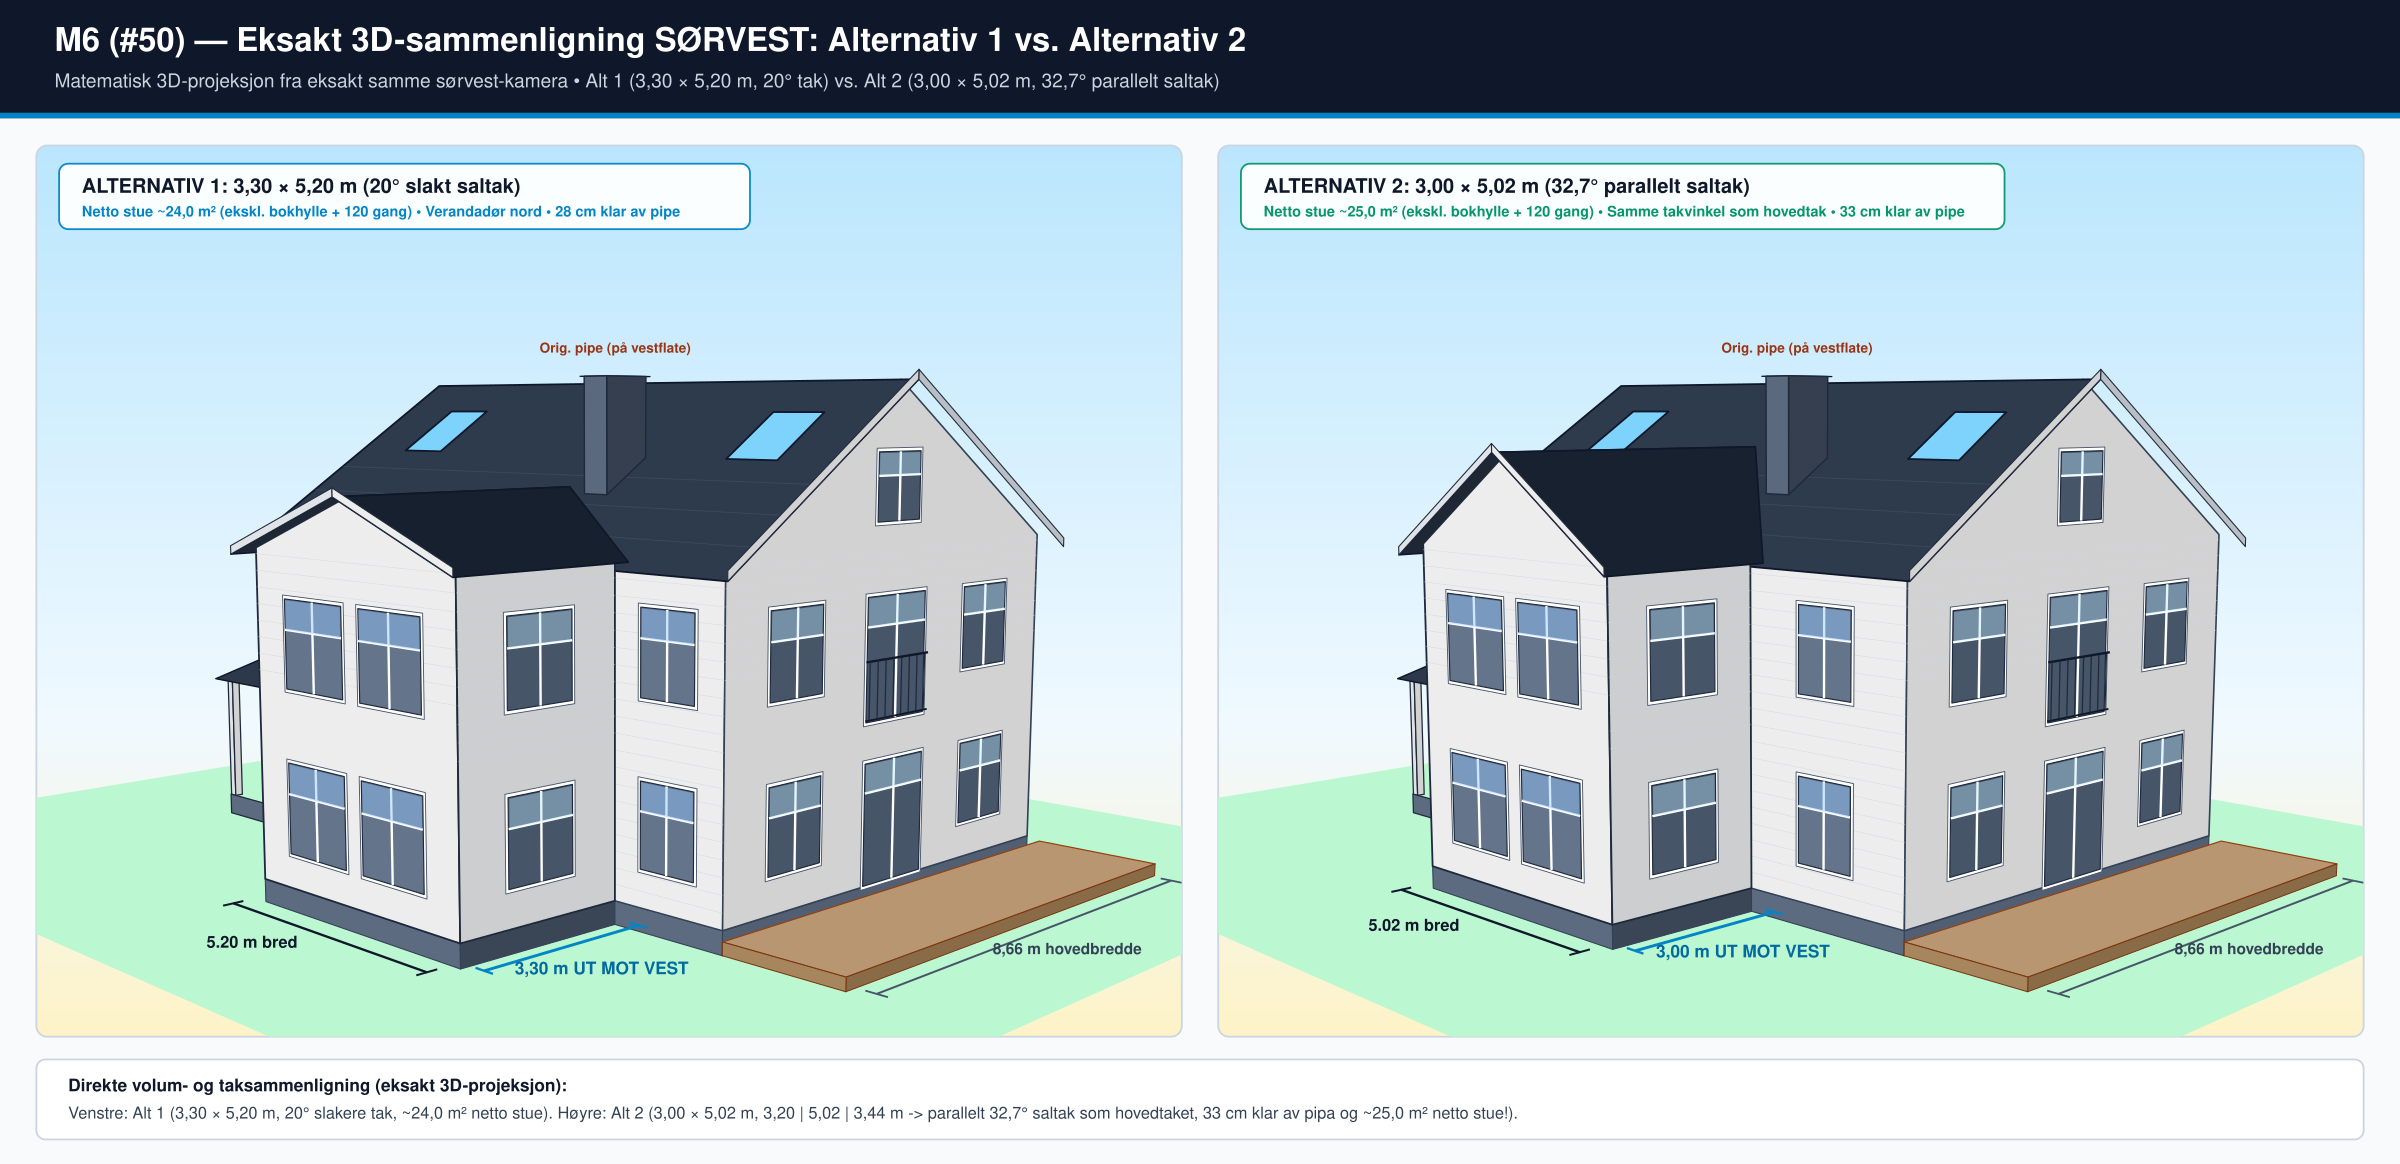
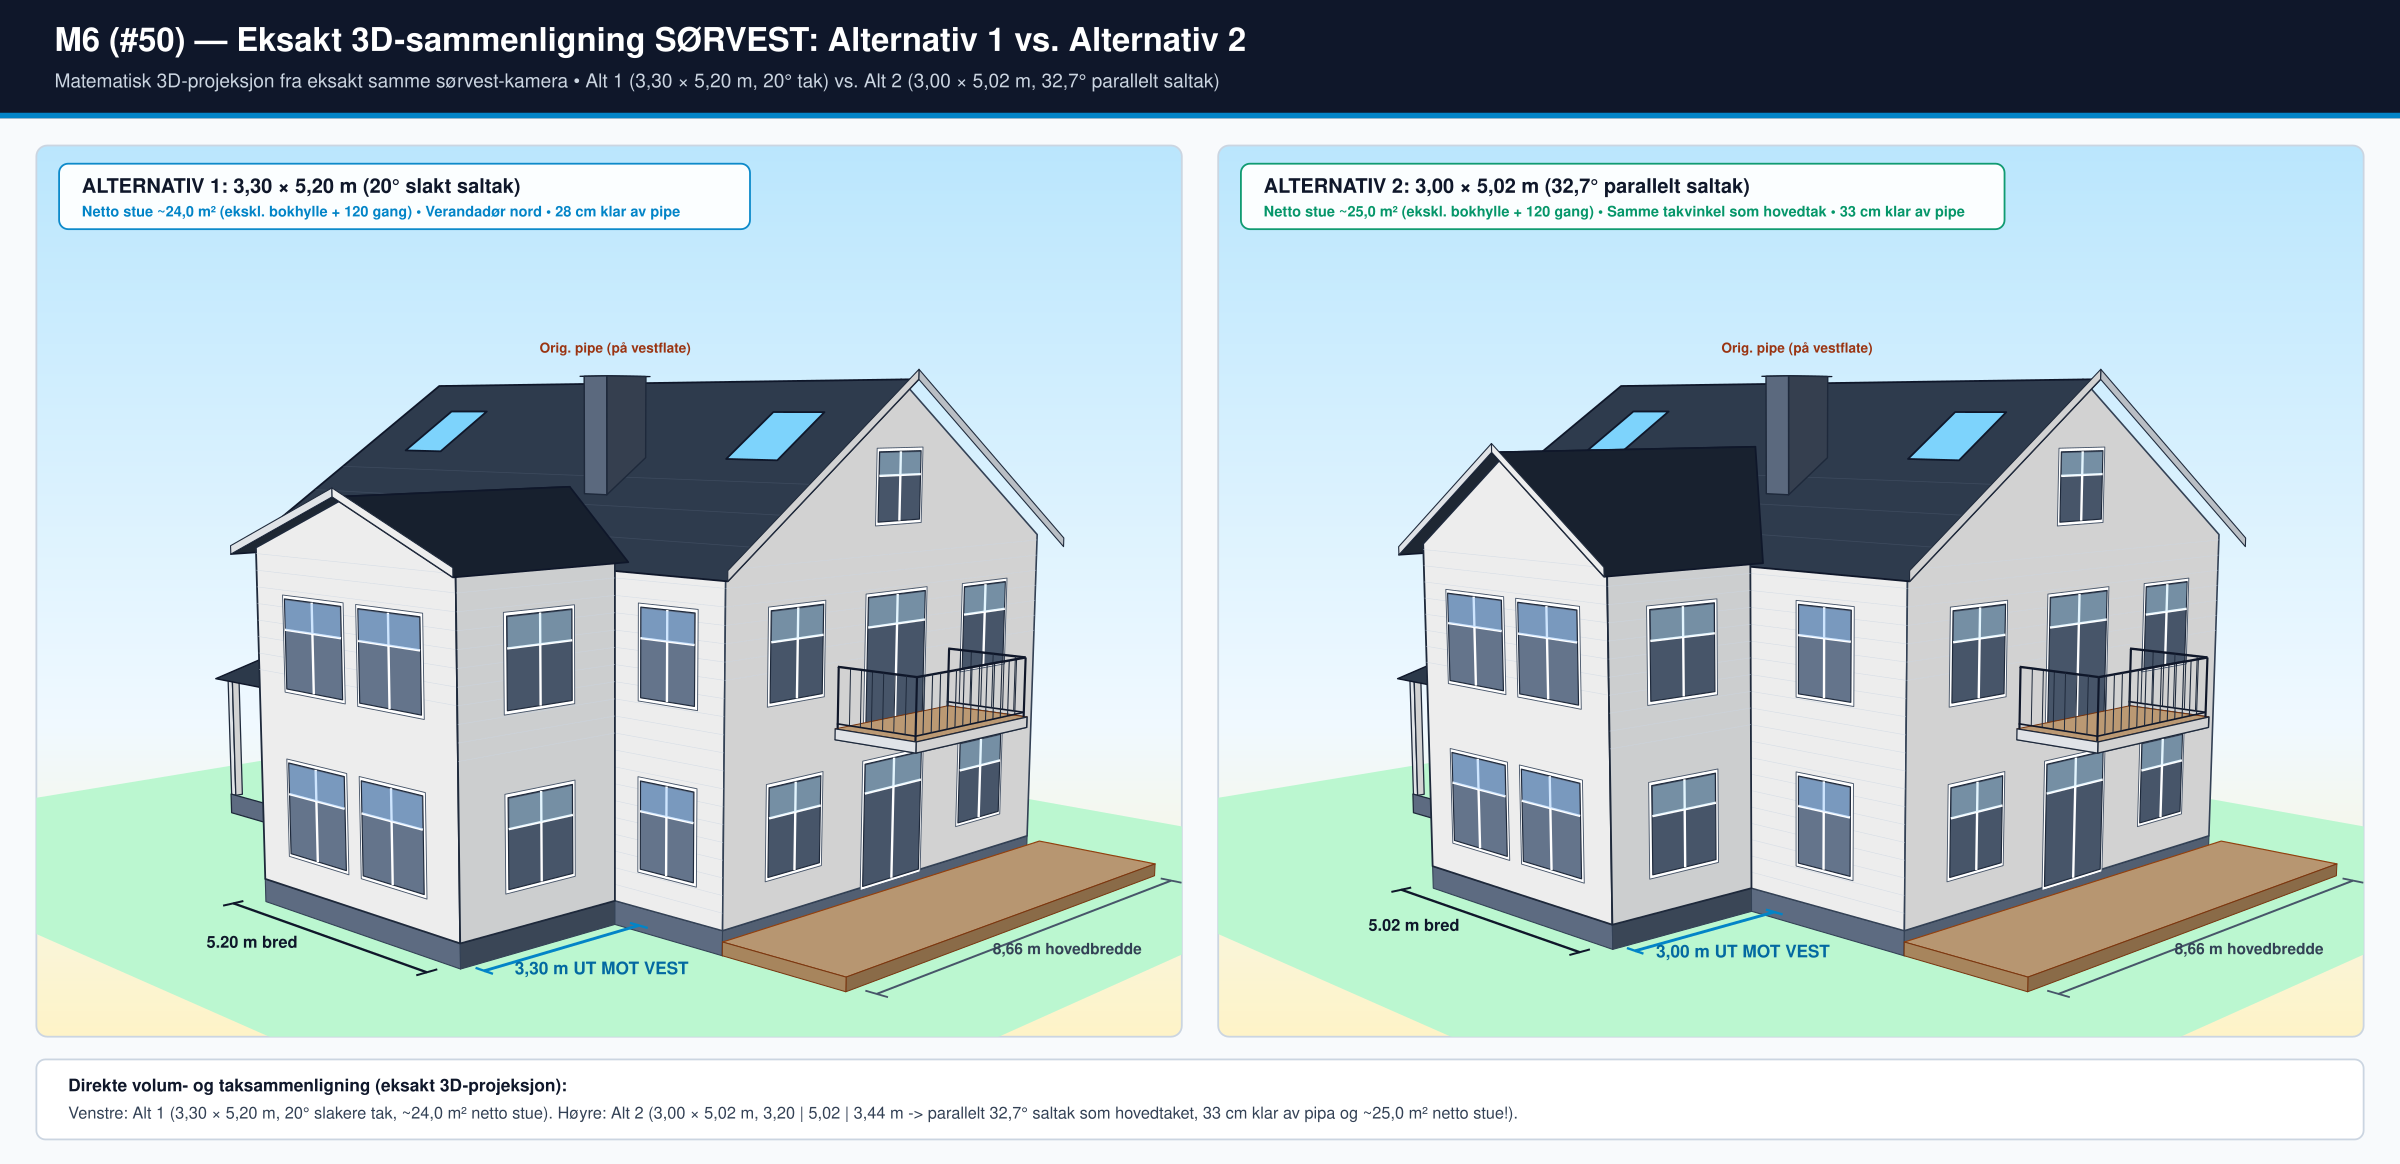
Add existing cantilevered 2nd-floor south balcony (3,20x1,60m) to all SW/SE 3D models (#50)

Changed region(s): [[0.3438, 0.5567, 0.4375, 0.6495], [0.8438, 0.5567, 0.9375, 0.6495]]

diff --git a/scripts/generate_3d_perspektiv_eksakt.py b/scripts/generate_3d_perspektiv_eksakt.py
@@ -171,6 +171,38 @@ class Scene3D:
             self.add_line((x1, y_wall - 0.5, z), (x2, y_wall - 0.5, z), stroke="#cbd5e1", sw=0.65, layer=layer, depth_bias=-2.0, opacity=0.65)
             z += step
 
+    def add_south_balcony(self, x1=273.0, x2=593.0, depth=160.0, z_floor=322.0, slab_t=18.0, rail_h=102.0, layer=5):
+        """Existing 2nd-floor cantilevered south balcony (~3,20 x 1,60 m = 5,2 m²) centered on veranda door."""
+        y0, y1 = 0.0, -depth
+        z0 = z_floor - slab_t
+        zr = z_floor + rail_h
+        # Underside soffit + deck top
+        self.add_poly([(x1, y1, z0), (x2, y1, z0), (x2, y0, z0), (x1, y0, z0)], "#cbd5e1", stroke="#475569", sw=1.1, layer=layer)
+        self.add_poly([(x1, y1, z_floor), (x2, y1, z_floor), (x2, y0, z_floor), (x1, y0, z_floor)], "#d6b084", stroke="#78350f", sw=1.1, layer=layer, ambient=0.78)
+        # Clean white fascia edges (south, west, east)
+        self.add_poly([(x1, y1, z0), (x2, y1, z0), (x2, y1, z_floor), (x1, y1, z_floor)], "#ffffff", stroke="#1e293b", sw=1.5, layer=layer)
+        self.add_poly([(x1, y1, z0), (x1, y0, z0), (x1, y0, z_floor), (x1, y1, z_floor)], "#f1f5f9", stroke="#1e293b", sw=1.4, layer=layer)
+        self.add_poly([(x2, y1, z0), (x2, y0, z0), (x2, y0, z_floor), (x2, y1, z_floor)], "#f1f5f9", stroke="#1e293b", sw=1.4, layer=layer)
+        # Matte-black metal balustrade railing (TEK17 height ~102 cm) along west, south, east edges
+        # Top & bottom rails
+        for z_bar, sw_bar in [(zr, 2.6), (z_floor + 8.0, 1.8)]:
+            self.add_line((x1 + 4, y0, z_bar), (x1 + 4, y1 + 4, z_bar), stroke="#0f172a", sw=sw_bar, layer=layer + 1)
+            self.add_line((x1 + 4, y1 + 4, z_bar), (x2 - 4, y1 + 4, z_bar), stroke="#0f172a", sw=sw_bar, layer=layer + 1)
+            self.add_line((x2 - 4, y1 + 4, z_bar), (x2 - 4, y0, z_bar), stroke="#0f172a", sw=sw_bar, layer=layer + 1)
+        # Corner posts
+        for px, py in [(x1 + 4, y1 + 4), (x2 - 4, y1 + 4), (x1 + 4, y0 - 2), (x2 - 4, y0 - 2)]:
+            self.add_line((px, py, z_floor), (px, py, zr), stroke="#0f172a", sw=2.4, layer=layer + 1)
+        # Vertical balusters (south front + west & east sides)
+        rx = x1 + 24.0
+        while rx < x2 - 12.0:
+            self.add_line((rx, y1 + 4, z_floor + 8.0), (rx, y1 + 4, zr), stroke="#1e293b", sw=1.2, layer=layer + 1)
+            rx += 22.0
+        ry = y1 + 24.0
+        while ry < y0 - 10.0:
+            self.add_line((x1 + 4, ry, z_floor + 8.0), (x1 + 4, ry, zr), stroke="#1e293b", sw=1.1, layer=layer + 1)
+            self.add_line((x2 - 4, ry, z_floor + 8.0), (x2 - 4, ry, zr), stroke="#1e293b", sw=1.1, layer=layer + 1)
+            ry += 22.0
+
     def render(self):
         # Sort by (layer ascending, depth descending = painter's algorithm)
         self.items.sort(key=lambda item: (item[0], -item[1]))
@@ -238,11 +270,8 @@ def build_house_3d(cam: Camera3D, west_d: float, y_s: float, y_n: float, wing_de
     sc.add_kors_window_south(0, 631, 761, 105, 250, layer=2)                # Kitchen 1st (right)
     sc.add_kors_window_south(0, 105, 235, 385, 530, layer=2)                # Opphold 2nd (left)
     sc.add_kors_window_south(0, 353, 513, 322, 532, is_door=True, layer=2)  # EXISTING centered veranda door 2nd!
-    # Subtle matte-black French balcony railing on centered 2nd-floor south veranda door
-    sc.add_line((346, -6, 425), (520, -6, 425), stroke="#0f172a", sw=2.6, layer=3, depth_bias=-12.0)
-    sc.add_line((346, -6, 326), (520, -6, 326), stroke="#0f172a", sw=2.0, layer=3, depth_bias=-12.0)
-    for rx in range(356, 516, 22):
-        sc.add_line((rx, -6, 326), (rx, -6, 425), stroke="#1e293b", sw=1.4, layer=3, depth_bias=-12.0)
+    # Existing cantilevered 2nd-floor south balcony (3,20 x 1,60 m = ~5,2 m²) centered on veranda door!
+    sc.add_south_balcony(273.0, 593.0, depth=160.0, z_floor=322.0, layer=4)
     sc.add_kors_window_south(0, 631, 761, 385, 530, layer=2)                # Sov 3 2nd (right, 3.1m wide)
     sc.add_kors_window_south(0, 375, 491, 655, 770, layer=2)                # Loft gable (centered!)
 

diff --git a/scripts/generate_3d_perspektiv_nordost_alt2.py b/scripts/generate_3d_perspektiv_nordost_alt2.py
@@ -124,10 +124,7 @@ def build_alt2_ne_scene(cam: Camera3D, with_labels=True, view="ne"):
         sc.add_kors_window_south(0, 631, 761, 103, 248, layer=4)
         sc.add_kors_window_south(0, 105, 235, 383, 528, layer=4)
         sc.add_kors_window_south(0, 353, 513, 322, 532, is_door=True, layer=4)
-        sc.add_line((346, -6, 425), (520, -6, 425), stroke="#0f172a", sw=2.2, layer=5, depth_bias=-12.0)
-        sc.add_line((346, -6, 326), (520, -6, 326), stroke="#0f172a", sw=1.6, layer=5, depth_bias=-12.0)
-        for rx in range(356, 516, 24):
-            sc.add_line((rx, -6, 326), (rx, -6, 425), stroke="#1e293b", sw=1.2, layer=5, depth_bias=-12.0)
+        sc.add_south_balcony(273.0, 593.0, depth=160.0, z_floor=322.0, layer=5)
         sc.add_kors_window_south(0, 631, 761, 383, 528, layer=4)
         sc.add_kors_window_south(0, 375, 491, 655, 770, layer=4)
 

diff --git a/scripts/generate_all4_3d_refs.py b/scripts/generate_all4_3d_refs.py
@@ -177,10 +177,7 @@ def build_se_ref():
     sc.add_kors_window_south(0, 631, 761, 105, 250, layer=4)
     sc.add_kors_window_south(0, 105, 235, 385, 530, layer=4)
     sc.add_kors_window_south(0, 353, 513, 322, 532, is_door=True, layer=4)
-    sc.add_line((346, -6, 425), (520, -6, 425), stroke="#0f172a", sw=2.4, layer=5, depth_bias=-12.0)
-    sc.add_line((346, -6, 326), (520, -6, 326), stroke="#0f172a", sw=1.8, layer=5, depth_bias=-12.0)
-    for rx in range(356, 516, 24):
-        sc.add_line((rx, -6, 326), (rx, -6, 425), stroke="#1e293b", sw=1.3, layer=5, depth_bias=-12.0)
+    sc.add_south_balcony(273.0, 593.0, depth=160.0, z_floor=322.0, layer=5)
     sc.add_kors_window_south(0, 631, 761, 385, 530, layer=4)
     sc.add_kors_window_south(0, 375, 491, 655, 770, layer=4)
 
